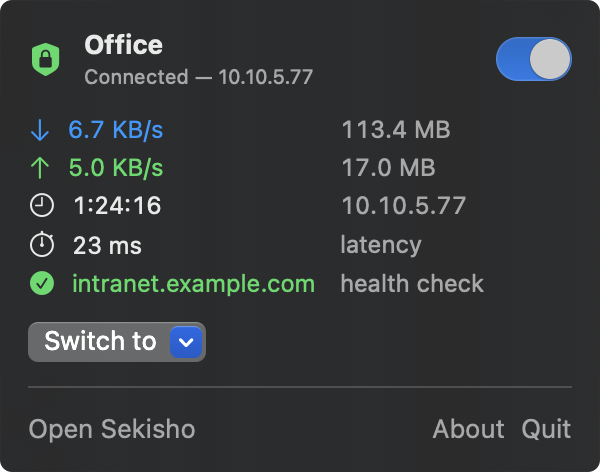
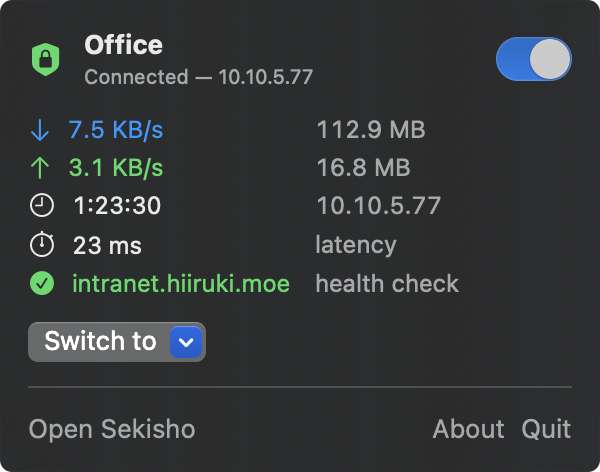
docs: screenshots with hiiruki.moe sample data
User hiiruki on vpn.hiiruki.moe with a dummy password, so the password field shows its dots too.

diff --git a/README.md b/README.md
@@ -16,7 +16,7 @@ Command Line Tools and Swift Package Manager are enough.
   &nbsp;&nbsp;
   <img src="docs/images/menu-bar.png" width="300" alt="Sekisho menu bar panel: connection status, speeds, duration, latency, health check and Switch to">
 </p>
-<p align="center"><sub>Sample data: <code>vpn.example.com</code> in split tunnel, with a health check on an internal host.</sub></p>
+<p align="center"><sub>Sample data: <code>vpn.hiiruki.moe</code> in split tunnel, with a health check on an internal host.</sub></p>
 
 | | |
 |---|---|
